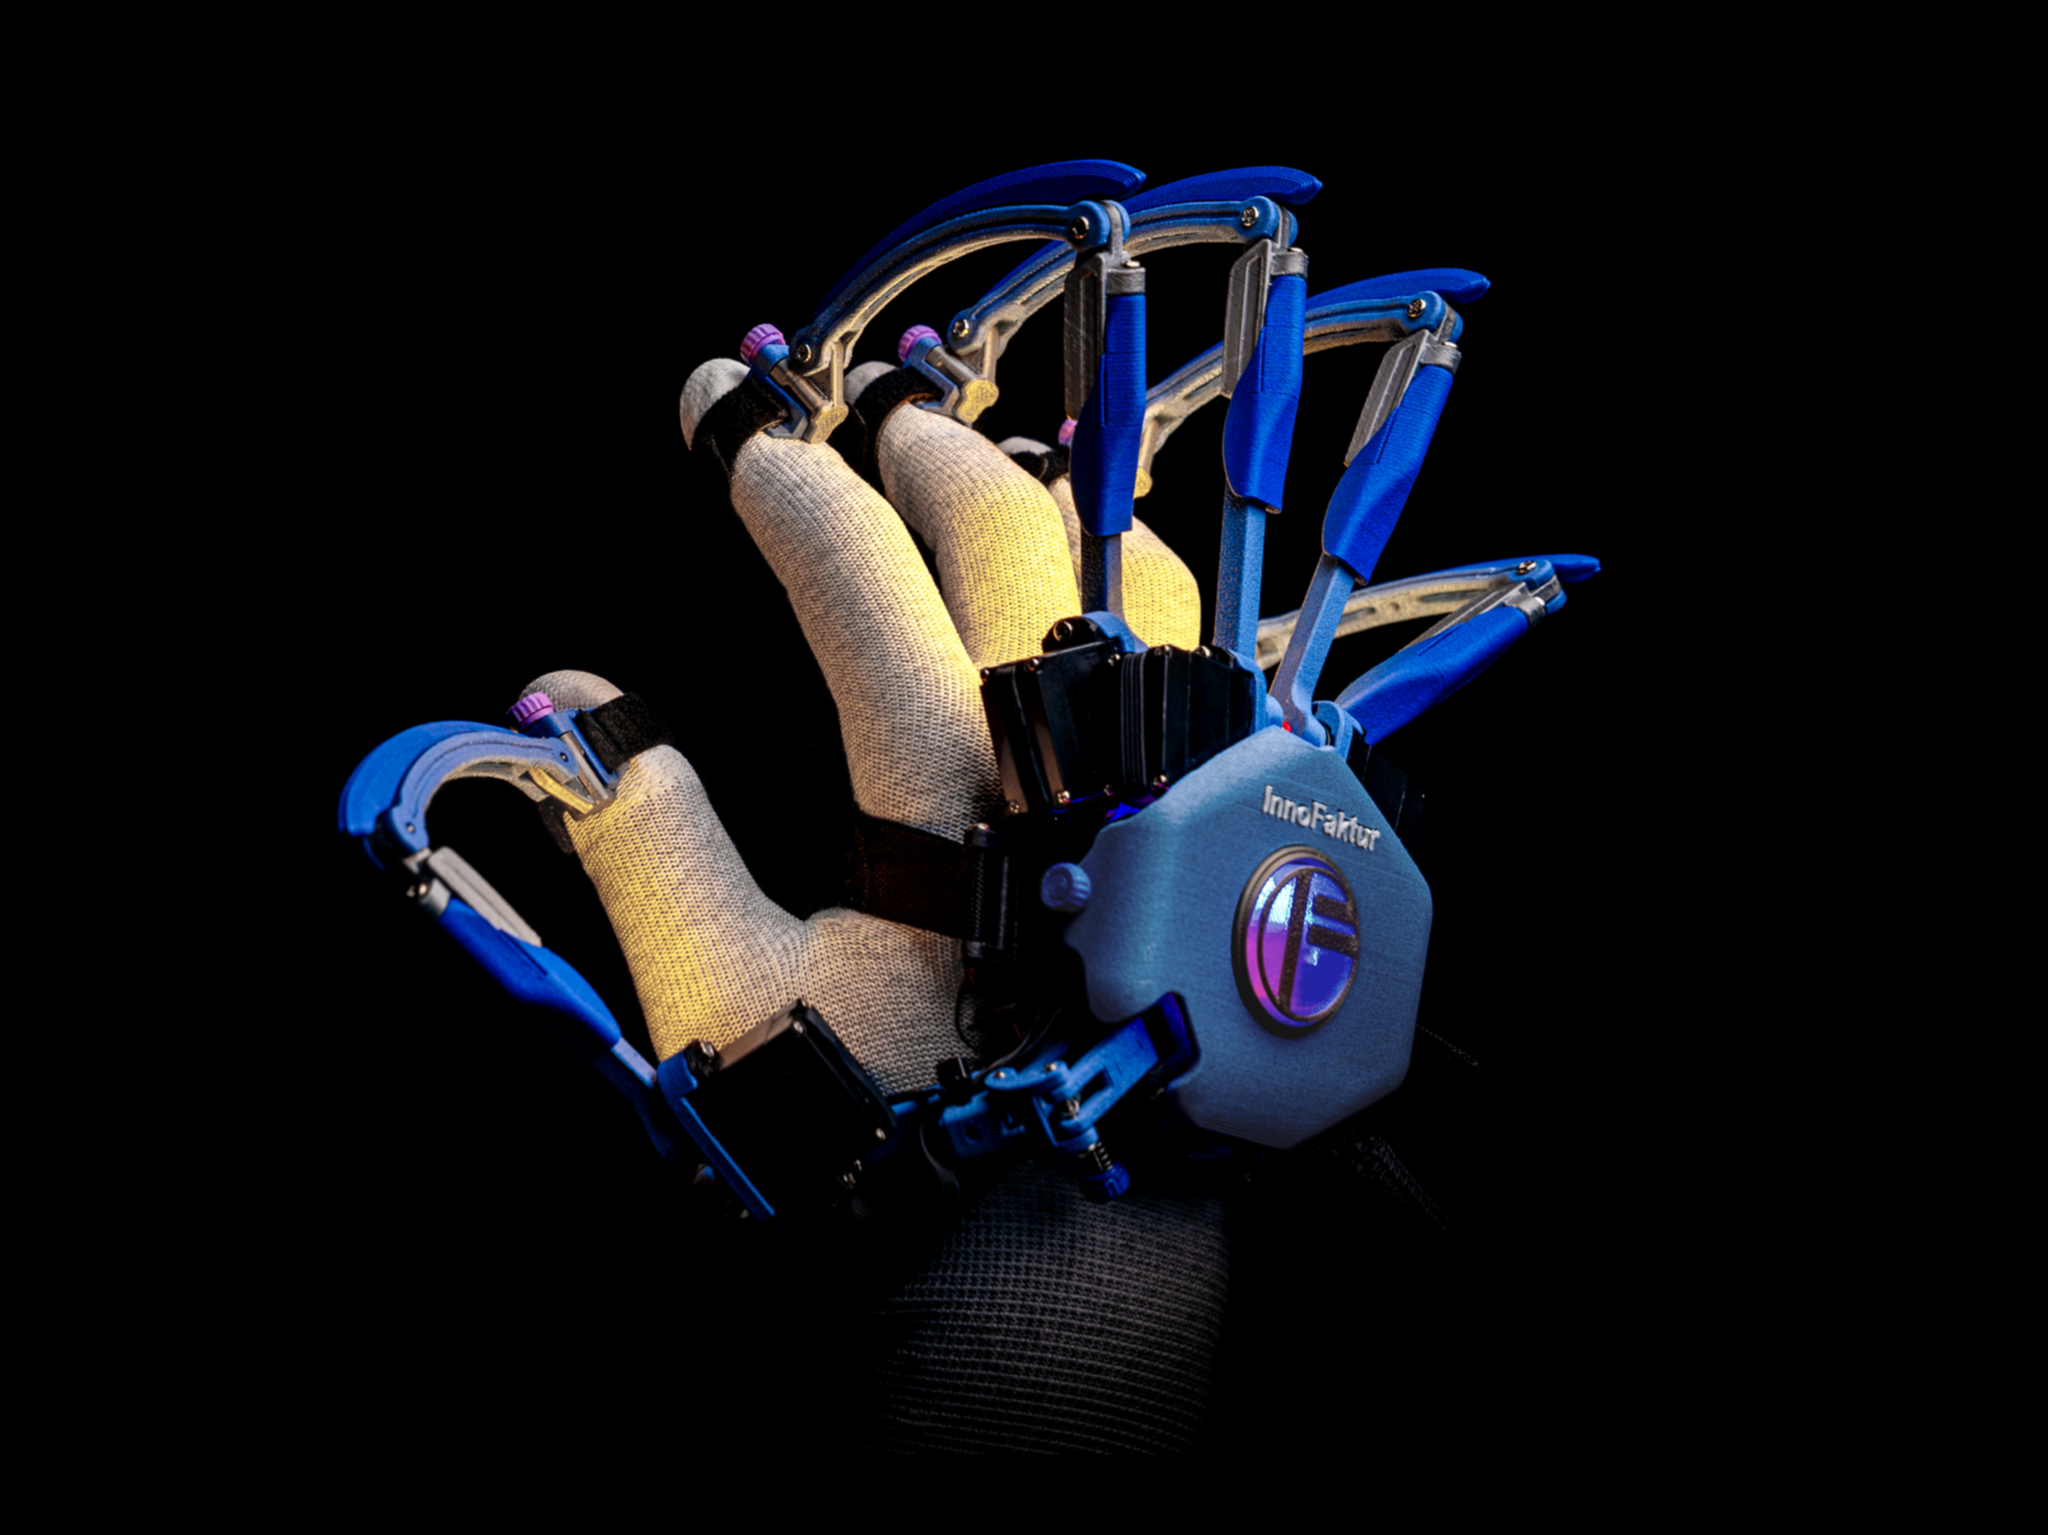
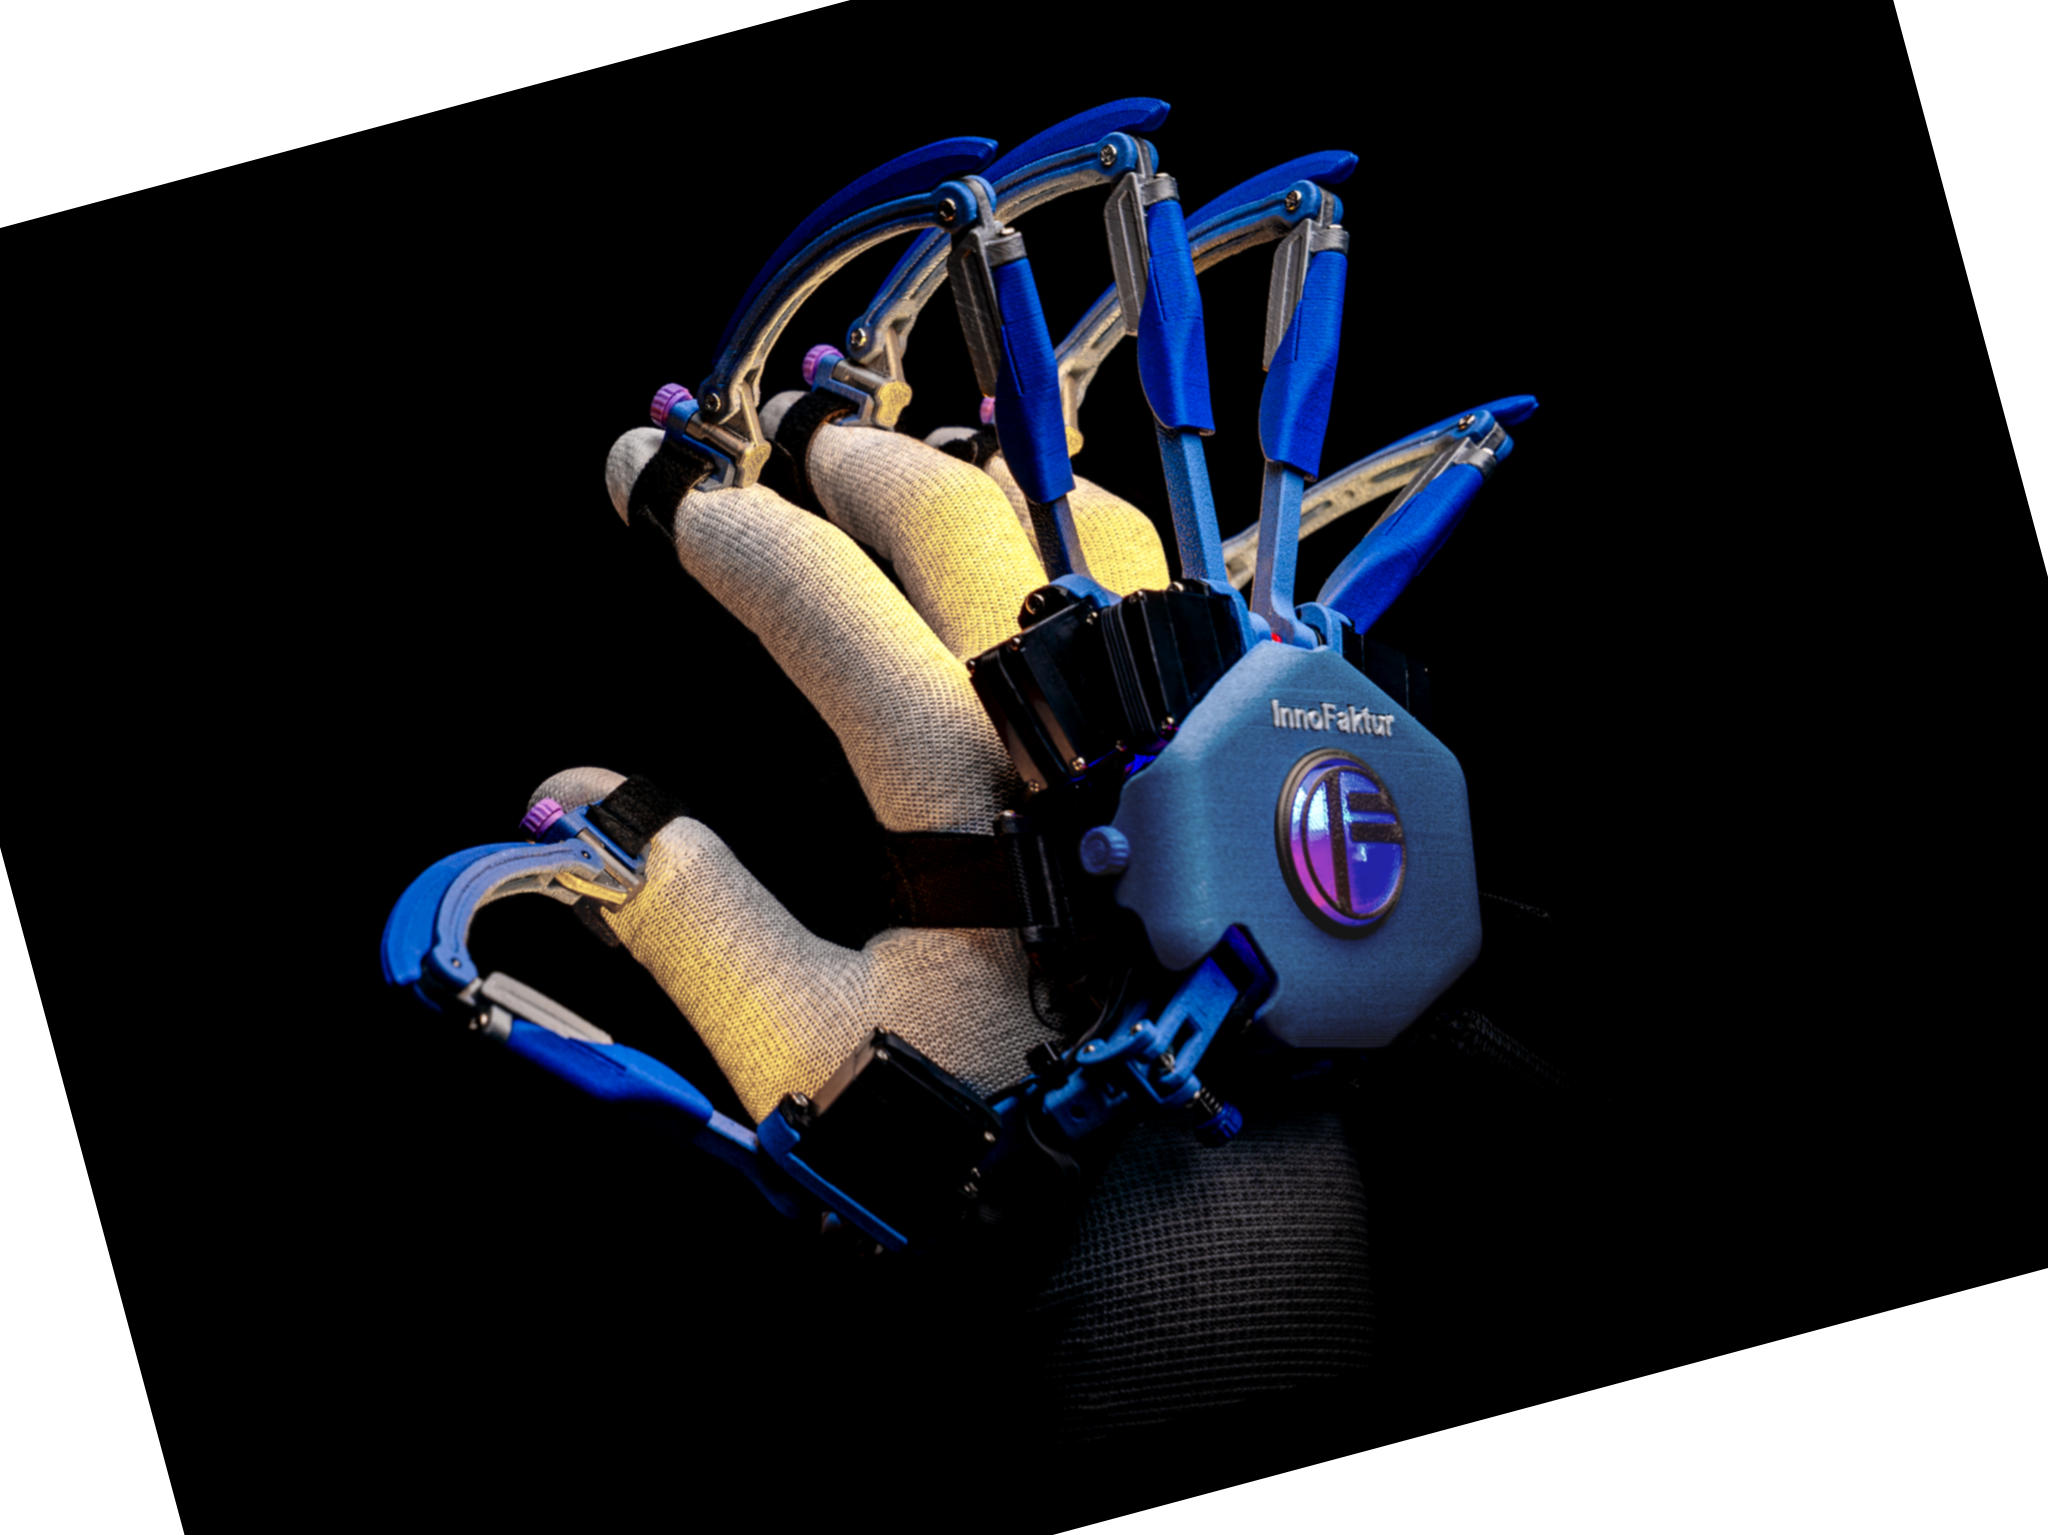
update email,video,foto fix

diff --git a/index.html b/index.html
@@ -88,16 +88,35 @@
                 <h1 class="text-[3.2rem] md:text-[3rem] leading-none font-bold tracking-tight text-[#444444]">Sign up now.</h1>
                 </div>
 
-                <form action="https://seu2.cleverreach.com/f/452581-429094/wcs/" method="POST" class="flex flex-col gap-3 max-w-[350px] pt-4">
-                    <input type="email" name="email" required placeholder="Email" class="bg-[#141414] text-white px-5 py-4 rounded-xl focus:outline-none focus:ring-1 focus:ring-gray-500 placeholder-gray-600 border border-[#222]">
-                    <button type="submit" class="bg-white text-black font-semibold text-lg px-5 py-4 rounded-xl hover:bg-gray-200 transition-colors">Sign Up</button>
+                <form action="https://submit-form.com/5I3xX6ZMl" method="POST" target="hidden_iframe" onsubmit="showSuccessMessage();" class="flex flex-col gap-3 max-w-[350px] pt-4">
+                <input type="email" name="email" required placeholder="Email" class="bg-[#141414] text-white px-5 py-4 rounded-xl focus:outline-none focus:ring-1 focus:ring-gray-500 placeholder-gray-600 border border-[#222]">
+        
+                <button type="submit" class="bg-white text-black font-semibold text-lg px-5 py-4 rounded-xl hover:bg-gray-200 transition-colors">Sign Up</button>
+        
+                <p id="form-success" class="text-sm mt-1 text-green-400 hidden">Connection established. You’re on the list!.</p>
                 </form>
+            </div>
+
+        <iframe name="hidden_iframe" id="hidden_iframe" style="display:none;"></iframe>
+
+        <script>
+        function showSuccessMessage() {
+            // Показываем красивый зеленый текст успеха на твоем сайте
+            document.getElementById('form-success').classList.remove('hidden');
+            
+            // Мягко очищаем поле ввода от текста
+            setTimeout(() => {
+                document.querySelector('input[name="email"]').value = '';
+            }, 100);
+        }
+        </script>
+
             </div>
         </div>
         
         <div class="w-full md:w-[60%] h-[50vh] md:h-screen relative mt-8 md:mt-0 flex items-center justify-center">
-            <img src="Felya Glove.png" alt="Robotic Hand Exoskeleton" 
-             class="h-full w-auto object-contain rotate-[-25deg] scale-125 -translate-y-[140px]">
+            <img src="affinity_Felya.jpg" alt="Robotic Hand Exoskeleton" 
+             class="h-full w-auto object-contain rotate-[-1deg] scale-120 -translate-y-[140px]">
         </div>
     </section>
 
@@ -183,6 +202,17 @@
                 <img src="5 Haptic_Feelback.jpg" alt="Prototyping 5" class="w-full shrink-0 h-auto object-contain object-center">
 
                 <img src="6 Your_hands.Your_arms.jpg" alt="Prototyping 6" class="w-full shrink-0 h-auto object-contain object-center">
+
+                <div class="w-full shrink-0 aspect-video max-h-[600px] flex items-center justify-center">
+                    <iframe 
+                        class="w-full h-full rounded-xl"
+                        src="https://www.youtube.com/embed/230vny1l3fE" 
+                        title="FELYA LABS Video" 
+                        frameborder="0" 
+                        allow="accelerometer; autoplay; clipboard-write; encrypted-media; gyroscope; picture-in-picture; web-share" 
+                        allowfullscreen>
+                    </iframe>
+                </div>
                 
                 </div>
         </div>

diff --git a/privacy.html b/privacy.html
@@ -17,9 +17,9 @@ Die Betreiber dieser Website nehmen den Schutz Ihrer persönlichen Daten sehr er
 Wenn Sie sich auf unserer Website für den Newsletter anmelden ("Stay in the loop"), erheben wir Ihre E-Mail-Adresse. 
 Diese Daten werden ausschließlich für den Versand von Updates und Informationen über unser Start-up-Initiative FELYA LABS verwendet.
 
-3. Newsletter-Dienstleister (CleverReach)
-Der Versand des Newsletters erfolgt mittels des Versanddienstleisters CleverReach (CleverReach GmbH & Co. KG, Schafjückenweg 2, 26180 Rastede, Deutschland). CleverReach ist ein deutscher Anbieter, und die Daten werden auf sicheren Servern in Deutschland/EU gespeichert.
-Die Datenverarbeitung erfolgt auf Grundlage Ihrer Einwilligung (Art. 6 Abs. 1 lit. a DSGVO) über das sogenannte Double-Opt-In-Verfahren. Sie können diese Einwilligung jederzeit widerrufen.
+3. Datenverarbeitung durch Formspark (Form Backend API)
+Für das Erfassen und Speichern der E-Mail-Adressen nutzen wir den europäischen Dienst Formspark (Formspark SRL, 1050 Brüssel, Belgien). Formspark ist ein europäischer Anbieter, und alle Daten werden auf sicheren Servern innerhalb der Europäischen Union (EU) verarbeitet und gespeichert.
+Die Datenverarbeitung erfolgt auf Grundlage Ihrer Einwilligung (Art. 6 Abs. 1 lit. a DSGVO). Sie können diese Einwilligung jederzeit mit Wirkung für die Zukunft widerrufen.
 
 4. Ihre Rechte
 Sie haben jederzeit das Recht, unentgeltlich Auskunft über Herkunft, Empfänger und Zweck Ihrer gespeicherten personenbezogenen Daten zu erhalten. Sie haben außerdem ein Recht, die Berichtigung oder Löschung dieser Daten zu verlangen. Kontaktieren Sie uns dazu einfach unter [email redacted].

diff --git a/terms.html b/terms.html
@@ -16,11 +16,12 @@ These Terms & Conditions apply to the website of FELYA LABS (Pre-seed venture, G
 2. Nature of Information
 The content on this website is for informational purposes about our real-time robotic teleoperation technology. As a pre-seed student venture, the projects, images, and specifications shown represent prototypes and ongoing research and development.
 
-3. Newsletter Subscription
-By signing up with your email, you request to receive future updates about FELYA LABS. We use a Double-Opt-In procedure to verify your request. You can unsubscribe at any time by contacting us.
+3. Waitlist & Subscription
+By signing up with your email, you request to join the FELYA LABS waitlist and receive future updates about our progress and launch. You can opt out and request the removal of your email from the list at any time by contacting us at [email redacted].
 
 4. Intellectual Property
 All content, graphics, and images on this website, including the Felya Glove and PATON I concepts, are the intellectual property of FELYA LABS and its founders unless stated otherwise. Unauthorized use, reproduction, or distribution is strictly prohibited.
+
 </div>
     </div>
 </body>